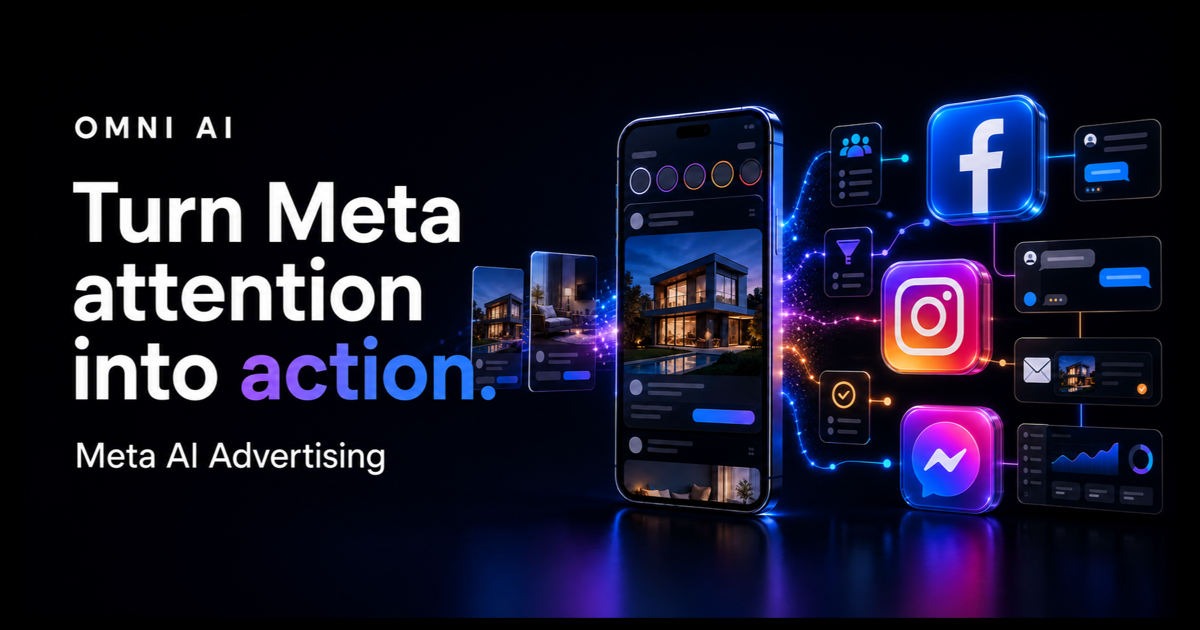
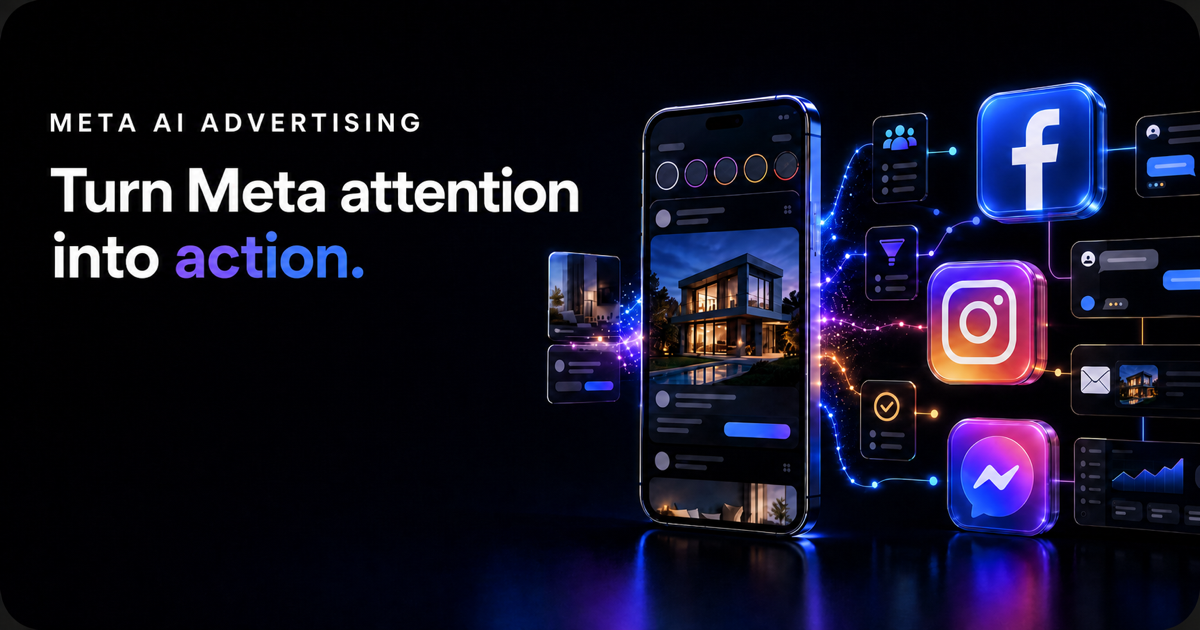
Refine Meta AI service page visuals

diff --git a/app/service/meta-ai-advertising/MetaAiAdvertisingClient.tsx b/app/service/meta-ai-advertising/MetaAiAdvertisingClient.tsx
@@ -45,7 +45,7 @@ type Offer = {
 const offers: Offer[] = [
   {
     key: "meta-ai-advertising",
-    eyebrow: "Campaign",
+    eyebrow: "Tier 1",
     title: "Meta AI Advertising",
     price: "$1,500",
     summary:
@@ -81,7 +81,7 @@ const offers: Offer[] = [
   },
   {
     key: "meta-ai-advertising-api",
-    eyebrow: "Connected",
+    eyebrow: "Tier 2",
     title: "Meta AI Advertising + API Integration",
     price: "$2,500",
     summary:
@@ -117,7 +117,7 @@ const offers: Offer[] = [
   },
   {
     key: "meta-ai-advertising-api-crm",
-    eyebrow: "Full system",
+    eyebrow: "Tier 3",
     title: "Meta AI + API + CRM (SMS, Email)",
     price: "$3,500",
     summary:
@@ -153,7 +153,7 @@ const offers: Offer[] = [
   },
   {
     key: "seo-first-11",
-    eyebrow: "First 11",
+    eyebrow: "Tier 0",
     title: "SEO",
     price: "Founding allocation",
     summary:
@@ -191,7 +191,7 @@ const offers: Offer[] = [
   },
   {
     key: "legacy",
-    eyebrow: "Private access",
+    eyebrow: "Tier 5",
     title: "Legacy",
     price: "Locked",
     summary:
@@ -288,7 +288,7 @@ function OfferCard({
             </div>
 
             <div
-              className={`relative mt-4 overflow-hidden rounded-2xl border border-white/10 ${
+              className={`relative mt-4 shrink-0 overflow-hidden rounded-2xl border border-white/10 ${
                 offer.compact ? "h-24 lg:h-28" : "h-24"
               }`}
             >
@@ -305,7 +305,7 @@ function OfferCard({
               />
             </div>
 
-            <h2 className={`${offer.compact ? "mt-3 text-2xl leading-tight lg:mt-5 lg:text-3xl" : "mt-3 text-2xl leading-tight"} font-semibold tracking-tight text-white`}>
+            <h2 className={`${offer.compact ? "mt-5 text-2xl leading-tight lg:text-3xl" : "mt-5 text-2xl leading-tight"} shrink-0 font-semibold tracking-tight text-white`}>
               {offer.title}
             </h2>
 
@@ -711,10 +711,7 @@ export function MetaAiAdvertisingClient() {
           />
           <div className="relative mx-auto w-full max-w-7xl">
             <div className="max-w-2xl text-left">
-              <p className="text-[11px] font-semibold uppercase tracking-[0.4em] text-purple-300">
-                Omni AI Services
-              </p>
-              <h1 className="mt-5 text-5xl font-semibold tracking-[-0.04em] text-white drop-shadow-2xl sm:text-6xl xl:text-7xl">
+              <h1 className="text-5xl font-semibold tracking-[-0.04em] text-white drop-shadow-2xl sm:text-6xl xl:text-7xl">
                 Turn Meta attention into{" "}
                 <span className="bg-gradient-to-r from-purple-300 via-fuchsia-300 to-blue-300 bg-clip-text text-transparent">
                   action.
@@ -729,11 +726,11 @@ export function MetaAiAdvertisingClient() {
                   Focused packages
                 </span>
                 <span className="inline-flex items-center gap-2">
-                  <Check className="h-4 w-4 text-blue-300" aria-hidden />
+                  <Check className="h-4 w-4 text-purple-300" aria-hidden />
                   Connected data
                 </span>
                 <span className="inline-flex items-center gap-2">
-                  <Check className="h-4 w-4 text-amber-300" aria-hidden />
+                  <Check className="h-4 w-4 text-purple-300" aria-hidden />
                   Automated follow-up
                 </span>
               </div>
@@ -750,7 +747,7 @@ export function MetaAiAdvertisingClient() {
           </div>
         </section>
 
-        <section className="px-4 pb-24 sm:px-6 sm:pb-32">
+        <section className="px-4 pb-24 pt-8 sm:px-6 sm:pb-32 sm:pt-10 lg:pt-0">
           <div className="mx-auto max-w-7xl">
             <div className="mb-4 flex items-center justify-between lg:hidden">
               <div>
